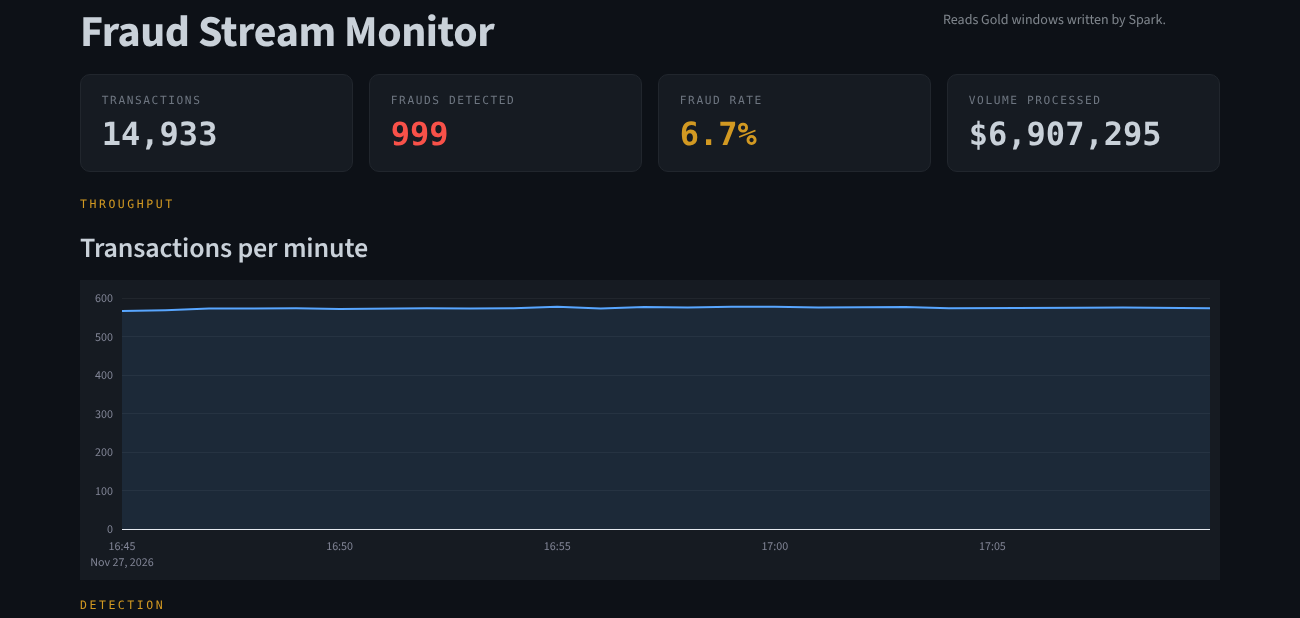
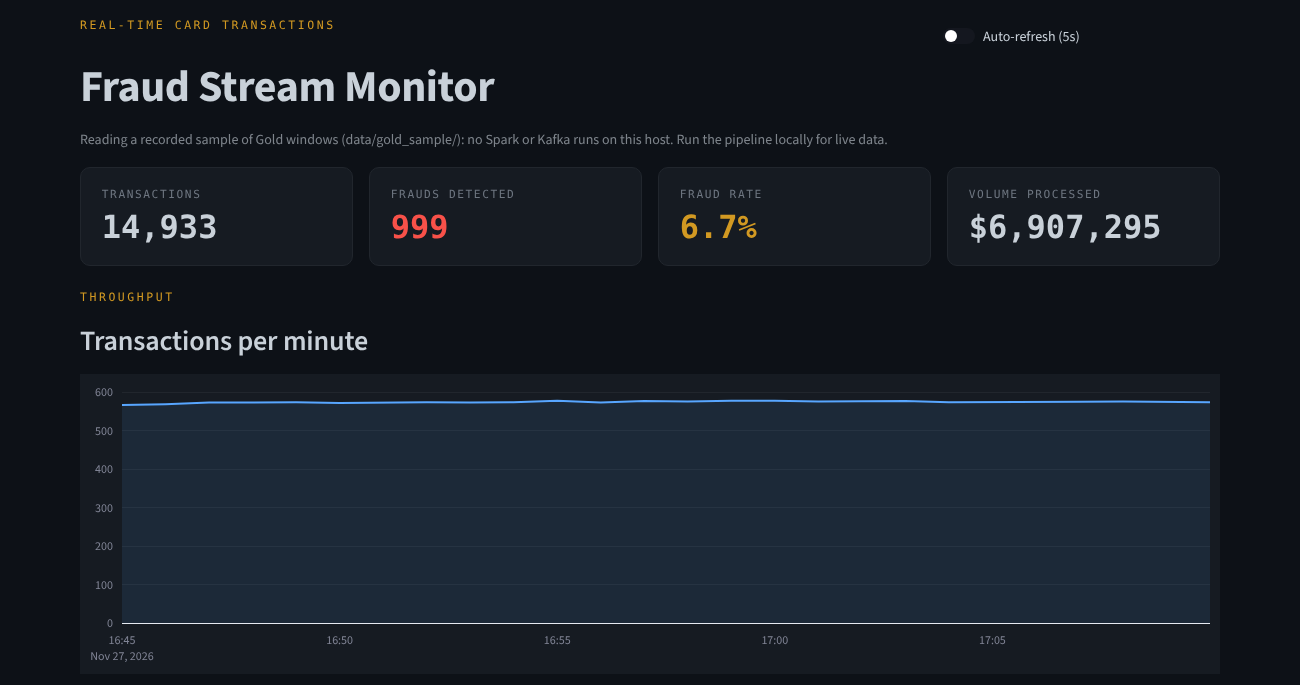
Docs audit: Delta Lake in the summary; the public dashboard says it shows a recorded sample
- README: the solution writes Delta Lake tables (it still said Parquet layers); the
  jar download note mentions Google's mirror.
- Dashboard: says when it reads the recorded sample instead of a live Delta table,
  as ADR 0006 and the README promise. Screenshot retaken.
- ADR 0006: the sample comes from the Delta Gold table and leaves out the partial
  first minute; the fallback path is data/delta/gold.

Claude-Session: https://claude.ai/code/session_01NPRom6U4n9MTC5L7n1c1Jp

diff --git a/dashboard/app.py b/dashboard/app.py
@@ -79,7 +79,7 @@ st.markdown(
 
 
 @st.cache_data(ttl=5)
-def load_gold() -> pd.DataFrame:
+def load_gold() -> tuple[pd.DataFrame, str]:
     # Local: read the Delta Gold table written by Spark (deltalake reads it without Spark,
     # and only committed versions, so a batch being written is never half visible).
     # Deploy (no Spark, no table): fall back to the small versioned sample.
@@ -88,14 +88,14 @@ def load_gold() -> pd.DataFrame:
 
         df = DeltaTable(GOLD_DIR).to_pandas()
         if not df.empty:
-            return df.sort_values("window_start").reset_index(drop=True)
+            return df.sort_values("window_start").reset_index(drop=True), "live"
 
     if os.path.exists(SAMPLE_PATH):
         df = pd.read_parquet(SAMPLE_PATH)
         df = df.drop_duplicates(subset=["window_start", "window_end"])
-        return df.sort_values("window_start").reset_index(drop=True)
+        return df.sort_values("window_start").reset_index(drop=True), "sample"
 
-    return pd.DataFrame()
+    return pd.DataFrame(), "none"
 
 
 def kpi(col, label, value, kind=""):
@@ -115,9 +115,15 @@ with left:
     st.markdown("# Fraud Stream Monitor")
 with right:
     auto = st.toggle("Auto-refresh (5s)", value=False)
-    st.caption("Reads Gold windows written by Spark.")
 
-df = load_gold()
+df, source = load_gold()
+if source == "sample":
+    st.caption(
+        "Reading a recorded sample of Gold windows (data/gold_sample/): no Spark or Kafka runs on "
+        "this host. Run the pipeline locally for live data."
+    )
+elif source == "live":
+    st.caption("Reading the live Delta Gold table written by Spark.")
 
 if df.empty:
     st.info(

diff --git a/README.md b/README.md
@@ -6,7 +6,7 @@
 
 **Problem.** Card fraud happens in seconds, and its signal is in patterns over time, such as a burst of tiny charges or a purchase far from home, rather than in any single transaction. A nightly batch report sees it a day late.
 
-**Solution.** A streaming pipeline that moves card transactions from Redpanda (Kafka API) through Spark Structured Streaming into Parquet layers and a live dashboard. It counts every fraud pattern per minute, and every event is checked against a contract on the way in.
+**Solution.** A streaming pipeline that moves card transactions from Redpanda (Kafka API) through Spark Structured Streaming into Delta Lake tables and a live dashboard. It counts every fraud pattern per minute, and every event is checked against a contract on the way in.
 
 - **Live dashboard:** [realtime-fraud-streaming.streamlit.app](https://realtime-fraud-streaming.streamlit.app) (serves a recorded sample, see [ADR 0006](docs/adr/0006-static-sample-for-the-public-dashboard.md))
 - **Design decisions:** [`docs/adr/`](docs/adr/README.md)
@@ -135,7 +135,7 @@ Card testing arrives in bursts, so it dominates the per-minute fraud counts even
    ```bash
    python spark/streaming_job.py
    ```
-   The first run downloads the Spark–Kafka connector and Delta Lake from Maven, so it needs internet access (they are cached afterwards).
+   The first run downloads the Spark–Kafka connector and Delta Lake from Maven Central (or Google's mirror of it, configured as a second repository), so it needs internet access; they are cached afterwards.
    The connector version in `spark/session.py` (`KAFKA_PKG`) must match the PySpark version in `requirements.txt` (3.5.8).
 
 6. **Start the producer** (terminal 2)

diff --git a/docs/adr/0006-static-sample-for-the-public-dashboard.md b/docs/adr/0006-static-sample-for-the-public-dashboard.md
@@ -6,7 +6,7 @@
 Streamlit Community Cloud runs plain Python only: no Docker, no JVM and no broker. It cannot run the pipeline.
 
 ## Decision
-`spark/export_sample.py` merges a run's Gold windows into `data/gold_sample/windows.parquet`, which is committed. When `data/gold/` is empty, as on the cloud host, the dashboard falls back to this sample.
+`spark/export_sample.py` writes a run's Gold windows from the Delta table to `data/gold_sample/windows.parquet`, which is committed; the first window is left out, because the stream starts part-way through that minute. When there is no Delta Gold table in `data/delta/gold`, as on the cloud host, the dashboard falls back to this sample.
 
 ## Alternatives considered
 - **Host the full pipeline on a paid VM.** It would be live, but it costs money and goes down when the budget does.
@@ -14,4 +14,4 @@ Streamlit Community Cloud runs plain Python only: no Docker, no JVM and no broke
 
 ## Consequences
 - The public link always works and costs nothing.
-- The public dashboard shows a past run, not live data. The README says so, and the full pipeline produces live data locally with three commands.
+- The public dashboard shows a past run, not live data. The dashboard and the README say so, and the README's steps produce live data locally.
